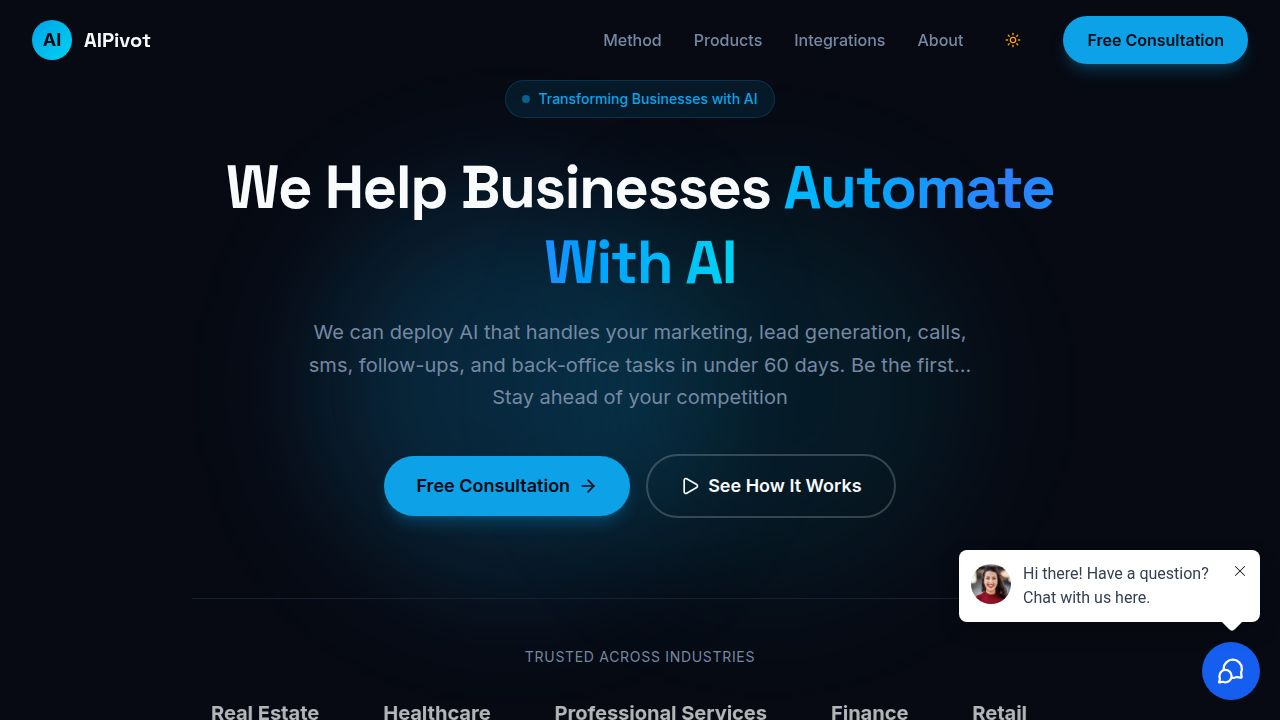
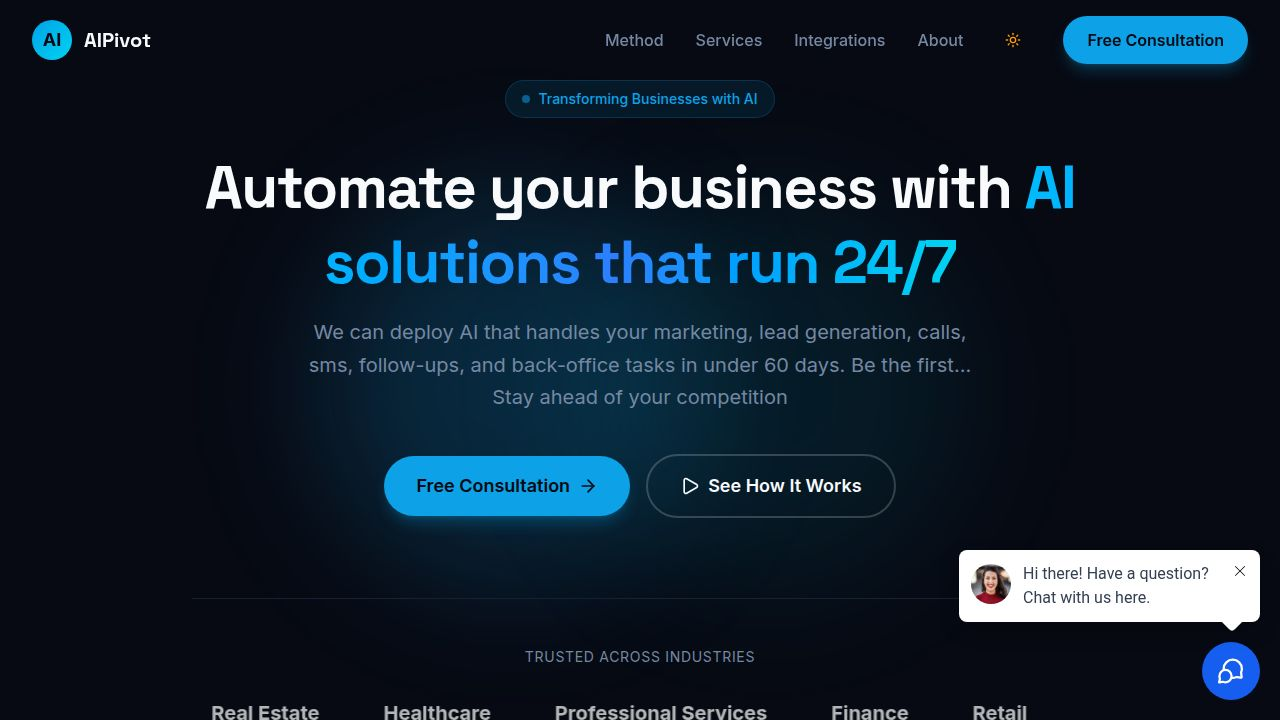
Expand website services to include AI SEO and software development
Update metadata, navigation, hero section, and service categories to reflect expanded AI SEO, automation, and software development offerings.

Replit-Commit-Author: Agent
Replit-Commit-Session-Id: 616f7ec8-56b7-40ac-97c3-e25da8dbcfec
Replit-Commit-Checkpoint-Type: full_checkpoint
Replit-Commit-Event-Id: 4e31c5cb-c0d3-47aa-8a10-a3e2f38cb1b9
Replit-Commit-Screenshot-Url: https://storage.googleapis.com/screenshot-production-us-central1/a4d2e7bf-6fef-4c84-ac98-2d1d1ffe8788/616f7ec8-56b7-40ac-97c3-e25da8dbcfec/Lr0ZAEw
Replit-Helium-Checkpoint-Created: true

diff --git a/client/src/components/sections/Services.tsx b/client/src/components/sections/Services.tsx
@@ -1,86 +1,138 @@
 import { motion } from "framer-motion";
-import { Bot, Phone, MessageSquare, BarChart3, Zap, Users } from "lucide-react";
+import { Bot, Phone, Search, Globe, Code, Puzzle, Zap, BarChart3, Cpu } from "lucide-react";
 
-const services = [
+const serviceCategories = [
   {
-    icon: Bot,
-    title: "AI Sales Executive",
-    description: "Instantly engage, qualify, and convert leads across SMS, Meta, Live Chat, and Webforms. 24/7 automated follow-ups."
+    category: "AI Automation",
+    services: [
+      {
+        icon: Bot,
+        title: "AI Sales Executive",
+        description: "Instantly engage, qualify, and convert leads across SMS, Meta, Live Chat, and webforms. 24/7 automated follow-ups that never miss an opportunity."
+      },
+      {
+        icon: Phone,
+        title: "AI Voice Agents",
+        description: "Handle inbound and outbound calls automatically. Qualify leads, book appointments, integrate with your CRM, and run cold calling campaigns."
+      },
+      {
+        icon: Zap,
+        title: "Workflow Automation",
+        description: "Automate repetitive tasks, data entry, and client communications across all your platforms — saving hours every single day."
+      }
+    ]
   },
   {
-    icon: Phone,
-    title: "AI Voice Agents",
-    description: "Handle inbound and outbound calls effortlessly. Qualify leads, book appointments, integrate with your CRM, and cold calling."
+    category: "AI SEO & Visibility",
+    services: [
+      {
+        icon: Search,
+        title: "AI SEO",
+        description: "AI-powered search engine optimisation that gets your business ranking higher on Google. Content strategy, technical SEO, and link building — done with AI precision."
+      },
+      {
+        icon: Cpu,
+        title: "AIO — Answer Engine Optimisation",
+        description: "Get your business featured in AI-generated answers on ChatGPT, Perplexity, and Google AI Overviews. Be the answer, not just a result."
+      },
+      {
+        icon: Globe,
+        title: "GEO — Generative Engine Optimisation",
+        description: "Optimise your online presence so AI models reference and recommend your business. Future-proof your visibility as search evolves."
+      }
+    ]
   },
   {
-    icon: MessageSquare,
-    title: "AI Personal Assistant",
-    description: "Automate appointment scheduling and customer calls. Sync with Google or Outlook calendars seamlessly."
-  },
-  {
-    icon: BarChart3,
-    title: "AI Analytics",
-    description: "Real-time insights into customer behaviour, lead quality, and conversion rates for your business."
-  },
-  {
-    icon: Zap,
-    title: "Workflow Automation",
-    description: "Automate repetitive tasks, data updates, and client communications across all platforms."
-  },
-  {
-    icon: Users,
-    title: "Lead Management",
-    description: "Intelligent lead scoring, routing, and nurturing to ensure no opportunity falls through the cracks."
+    category: "Build & Integrate",
+    services: [
+      {
+        icon: Globe,
+        title: "Website Design & Development",
+        description: "Fast, conversion-focused websites built with AI-enhanced design. From landing pages to full business sites — delivered in days, not months."
+      },
+      {
+        icon: Code,
+        title: "App & Software Development",
+        description: "Custom web apps and software tailored to your business. Automate internal processes, build client portals, and create tools your team actually wants to use."
+      },
+      {
+        icon: Puzzle,
+        title: "AI Tools & Integrations",
+        description: "Connect your entire tech stack with AI. CRM integrations, API connections, and custom AI tools that plug straight into your existing business systems."
+      }
+    ]
   }
 ];
 
 export function Services() {
+  let cardIndex = 0;
+
   return (
-    <section 
-      id="products" 
+    <section
+      id="services"
       className="py-24 bg-card"
-      aria-labelledby="products-heading"
+      aria-labelledby="services-heading"
     >
       <div className="container-main">
-        <motion.div 
+        <motion.div
           className="text-center mb-16"
           initial={{ opacity: 0, y: 20 }}
           whileInView={{ opacity: 1, y: 0 }}
           viewport={{ once: true }}
         >
-          <h2 id="products-heading" className="text-3xl sm:text-4xl lg:text-5xl font-bold text-foreground mb-4">
-            AI Automation Products
+          <h2 id="services-heading" className="text-3xl sm:text-4xl lg:text-5xl font-bold text-foreground mb-4">
+            What We Do
           </h2>
           <p className="text-xl text-muted-foreground max-w-2xl mx-auto">
-            Enterprise-grade AI products that reduce operational costs by 60-80% and scale your business operations
+            From AI automation to SEO, websites, and custom software — we help Australian businesses grow faster with the right technology
           </p>
         </motion.div>
 
-        <div 
-          className="grid grid-cols-1 md:grid-cols-2 lg:grid-cols-3 gap-4 sm:gap-6"
-          itemScope
-          itemType="https://schema.org/ItemList"
-        >
-          {services.map((service, i) => (
-            <motion.div
-              key={i}
-              className="p-6 sm:p-8 rounded-2xl bg-background border border-border hover:border-primary/50 transition-all duration-300 group"
-              initial={{ opacity: 0, y: 20 }}
-              whileInView={{ opacity: 1, y: 0 }}
-              viewport={{ once: true }}
-              transition={{ delay: i * 0.1 }}
-              itemScope
-              itemProp="itemListElement"
-              itemType="https://schema.org/Service"
-              data-testid={`service-card-${i}`}
-            >
-              <div className="w-14 h-14 rounded-xl bg-primary/10 flex items-center justify-center mb-6 group-hover:bg-primary/20 transition-colors" aria-hidden="true">
-                <service.icon className="w-7 h-7 text-primary" />
+        <div className="space-y-16" itemScope itemType="https://schema.org/ItemList">
+          {serviceCategories.map((cat, catIndex) => {
+            const catCards = cat.services.map((service, i) => {
+              const globalIndex = cardIndex++;
+              return (
+                <motion.div
+                  key={i}
+                  className="p-6 sm:p-8 rounded-2xl bg-background border border-border hover:border-primary/50 transition-all duration-300 group"
+                  initial={{ opacity: 0, y: 20 }}
+                  whileInView={{ opacity: 1, y: 0 }}
+                  viewport={{ once: true }}
+                  transition={{ delay: i * 0.1 }}
+                  itemScope
+                  itemProp="itemListElement"
+                  itemType="https://schema.org/Service"
+                  data-testid={`service-card-${globalIndex}`}
+                >
+                  <div
+                    className="w-14 h-14 rounded-xl bg-primary/10 flex items-center justify-center mb-6 group-hover:bg-primary/20 transition-colors"
+                    aria-hidden="true"
+                  >
+                    <service.icon className="w-7 h-7 text-primary" />
+                  </div>
+                  <h3 className="text-xl font-bold text-foreground mb-3" itemProp="name">{service.title}</h3>
+                  <p className="text-muted-foreground leading-relaxed" itemProp="description">{service.description}</p>
+                </motion.div>
+              );
+            });
+
+            return (
+              <div key={catIndex}>
+                <motion.h3
+                  className="text-lg font-semibold text-primary uppercase tracking-wider mb-6"
+                  initial={{ opacity: 0, x: -10 }}
+                  whileInView={{ opacity: 1, x: 0 }}
+                  viewport={{ once: true }}
+                >
+                  {cat.category}
+                </motion.h3>
+                <div className="grid grid-cols-1 md:grid-cols-2 lg:grid-cols-3 gap-4 sm:gap-6">
+                  {catCards}
+                </div>
               </div>
-              <h3 className="text-xl font-bold text-foreground mb-3" itemProp="name">{service.title}</h3>
-              <p className="text-muted-foreground leading-relaxed" itemProp="description">{service.description}</p>
-            </motion.div>
-          ))}
+            );
+          })}
         </div>
       </div>
     </section>

diff --git a/client/index.html b/client/index.html
@@ -13,9 +13,9 @@
       gtag('config', 'G-Z5TMS725JR');
     </script>
     
-    <title>AIPivot | AI Automation for Australian Businesses</title>
-    <meta name="description" content="Turn missed calls and admin into automated systems. AI that handles calls, follow-ups, and back-office tasks in under 60 days." />
-    <meta name="keywords" content="AI automation Australia, enterprise AI solutions, AI voice agents, invoice automation, business process automation, lead nurturing AI, compliance AI, AI receptionist, workflow automation, AI implementation Australia, Brisbane AI agency" />
+    <title>AIPivot | AI SEO, Automation &amp; Software Agency — Brisbane, Australia</title>
+    <meta name="description" content="AIPivot is Brisbane's AI SEO and automation agency. We help Australian businesses rank higher, generate more leads, and automate operations with AI — websites, apps, AI voice agents, and more." />
+    <meta name="keywords" content="AI SEO Australia, AI automation agency Brisbane, AIO answer engine optimisation, GEO generative engine optimisation, AI voice agents, workflow automation, website design Brisbane, app development Brisbane, AI tools integrations, business automation Australia" />
     <meta name="author" content="AIPivot" />
     <meta name="robots" content="index, follow, max-image-preview:large, max-snippet:-1, max-video-preview:-1" />
     <link rel="canonical" href="https://aipivot.com.au/" />
@@ -25,8 +25,8 @@
     <meta name="geo.position" content="-27.4698;153.0251" />
     <meta name="ICBM" content="-27.4698, 153.0251" />
     
-    <meta property="og:title" content="AIPivot | AI Automation for Australian Businesses" />
-    <meta property="og:description" content="Turn missed calls and admin into automated systems. AI that handles calls, follow-ups, and back-office tasks in under 60 days." />
+    <meta property="og:title" content="AIPivot | AI SEO, Automation &amp; Software Agency — Brisbane, Australia" />
+    <meta property="og:description" content="AIPivot is Brisbane's AI SEO and automation agency. We help Australian businesses rank higher, generate more leads, and automate operations with AI — websites, apps, AI voice agents, and more." />
     <meta property="og:type" content="website" />
     <meta property="og:url" content="https://aipivot.com.au/" />
     <meta property="og:site_name" content="AIPivot" />
@@ -39,8 +39,8 @@
     <meta name="twitter:card" content="summary_large_image" />
     <meta name="twitter:site" content="@aipivot" />
     <meta name="twitter:creator" content="@aipivot" />
-    <meta name="twitter:title" content="AIPivot | AI Automation for Australian Businesses" />
-    <meta name="twitter:description" content="Turn missed calls and admin into automated systems. AI that handles calls, follow-ups, and back-office tasks in under 60 days." />
+    <meta name="twitter:title" content="AIPivot | AI SEO, Automation &amp; Software Agency — Brisbane, Australia" />
+    <meta name="twitter:description" content="AIPivot is Brisbane's AI SEO and automation agency. We help Australian businesses rank higher, generate more leads, and automate operations with AI — websites, apps, AI voice agents, and more." />
     <meta name="twitter:image" content="https://aipivot.com.au/opengraph.jpg" />
     
     <meta name="format-detection" content="telephone=no" />
@@ -74,7 +74,7 @@
             "width": 512,
             "height": 512
           },
-          "description": "AIPivot is an AI Automation & Business Transformation Agency based in Australia, delivering enterprise-grade AI solutions including AI voice agents, invoice automation, lead nurturing, and compliance-ready AI infrastructure.",
+          "description": "AIPivot is an AI SEO and automation agency based in Brisbane, Australia. We help businesses rank higher on Google and AI search engines, automate operations, build websites and apps, and integrate AI tools across their business.",
           "address": {
             "@type": "PostalAddress",
             "addressLocality": "Brisbane",
@@ -93,7 +93,7 @@
           "@id": "https://aipivot.com.au/#localbusiness",
           "name": "AIPivot",
           "image": "https://aipivot.com.au/opengraph.jpg",
-          "description": "AI Automation Agency delivering enterprise-grade AI solutions for Australian businesses",
+          "description": "AI SEO and automation agency delivering AI-powered growth, website design, app development, and business automation for Australian businesses",
           "address": {
             "@type": "PostalAddress",
             "addressLocality": "Brisbane",

diff --git a/client/src/components/sections/Hero.tsx b/client/src/components/sections/Hero.tsx
@@ -32,7 +32,7 @@ export function Hero() {
           >
             <div className="inline-flex items-center gap-2 px-3 sm:px-4 py-2 rounded-full bg-primary/10 border border-primary/20 text-primary text-xs sm:text-sm font-medium mb-6 sm:mb-8" role="status">
               <span className="w-2 h-2 rounded-full bg-primary animate-pulse" aria-hidden="true" />
-              <span itemProp="description">Transforming Businesses with AI</span>
+              <span itemProp="description">AI Automation &amp; SEO Agency — Brisbane, Australia</span>
             </div>
 
             <h1 
@@ -43,7 +43,7 @@ export function Hero() {
               Automate your business with <span className="gradient-text">AI solutions that run 24/7</span>
             </h1>
 
-            <p className="text-base sm:text-lg md:text-xl text-muted-foreground max-w-2xl mx-auto mb-6 sm:mb-8 md:mb-10 leading-relaxed" itemProp="text">We can deploy AI that handles your marketing, lead generation, calls, sms, follow-ups, and back-office tasks in under 60 days. Be the first... Stay ahead of your competition</p>
+            <p className="text-base sm:text-lg md:text-xl text-muted-foreground max-w-2xl mx-auto mb-6 sm:mb-8 md:mb-10 leading-relaxed" itemProp="text">We build AI automation, AI-powered SEO, and custom software that grow your business around the clock — from getting found on Google and AI search, to converting leads and handling operations automatically.</p>
 
             <div className="flex flex-col sm:flex-row items-center justify-center gap-3 sm:gap-4">
               <a 

diff --git a/client/src/components/layout/Navbar.tsx b/client/src/components/layout/Navbar.tsx
@@ -15,7 +15,7 @@ export function Navbar() {
 
   const navLinks = [
     { href: "#method", label: "Method" },
-    { href: "#products", label: "Products" },
+    { href: "#services", label: "Services" },
     { href: "#integrations", label: "Integrations" },
     { href: "#about", label: "About" },
   ];

diff --git a/replit.md b/replit.md
@@ -2,7 +2,7 @@
 
 ## Overview
 
-AIPivot is a marketing website for an AI automation agency based in Brisbane, Australia. The platform showcases enterprise AI automation services including AI voice agents, invoice automation, lead nurturing, and compliance-ready solutions. The website is designed for SEO/GEO optimization targeting Australian enterprise clients seeking AI automation implementation services.
+AIPivot is a marketing website for an AI SEO and automation agency based in Brisbane, Australia. The platform showcases a full suite of AI-powered services including: AI SEO, AIO (Answer Engine Optimisation), GEO (Generative Engine Optimisation), AI voice agents, workflow automation, website design, app/software development, and AI tools & integrations. The website is designed for SEO/AEO/GEO/LLM optimisation targeting Australian businesses seeking AI-powered growth.
 
 ## User Preferences
 
